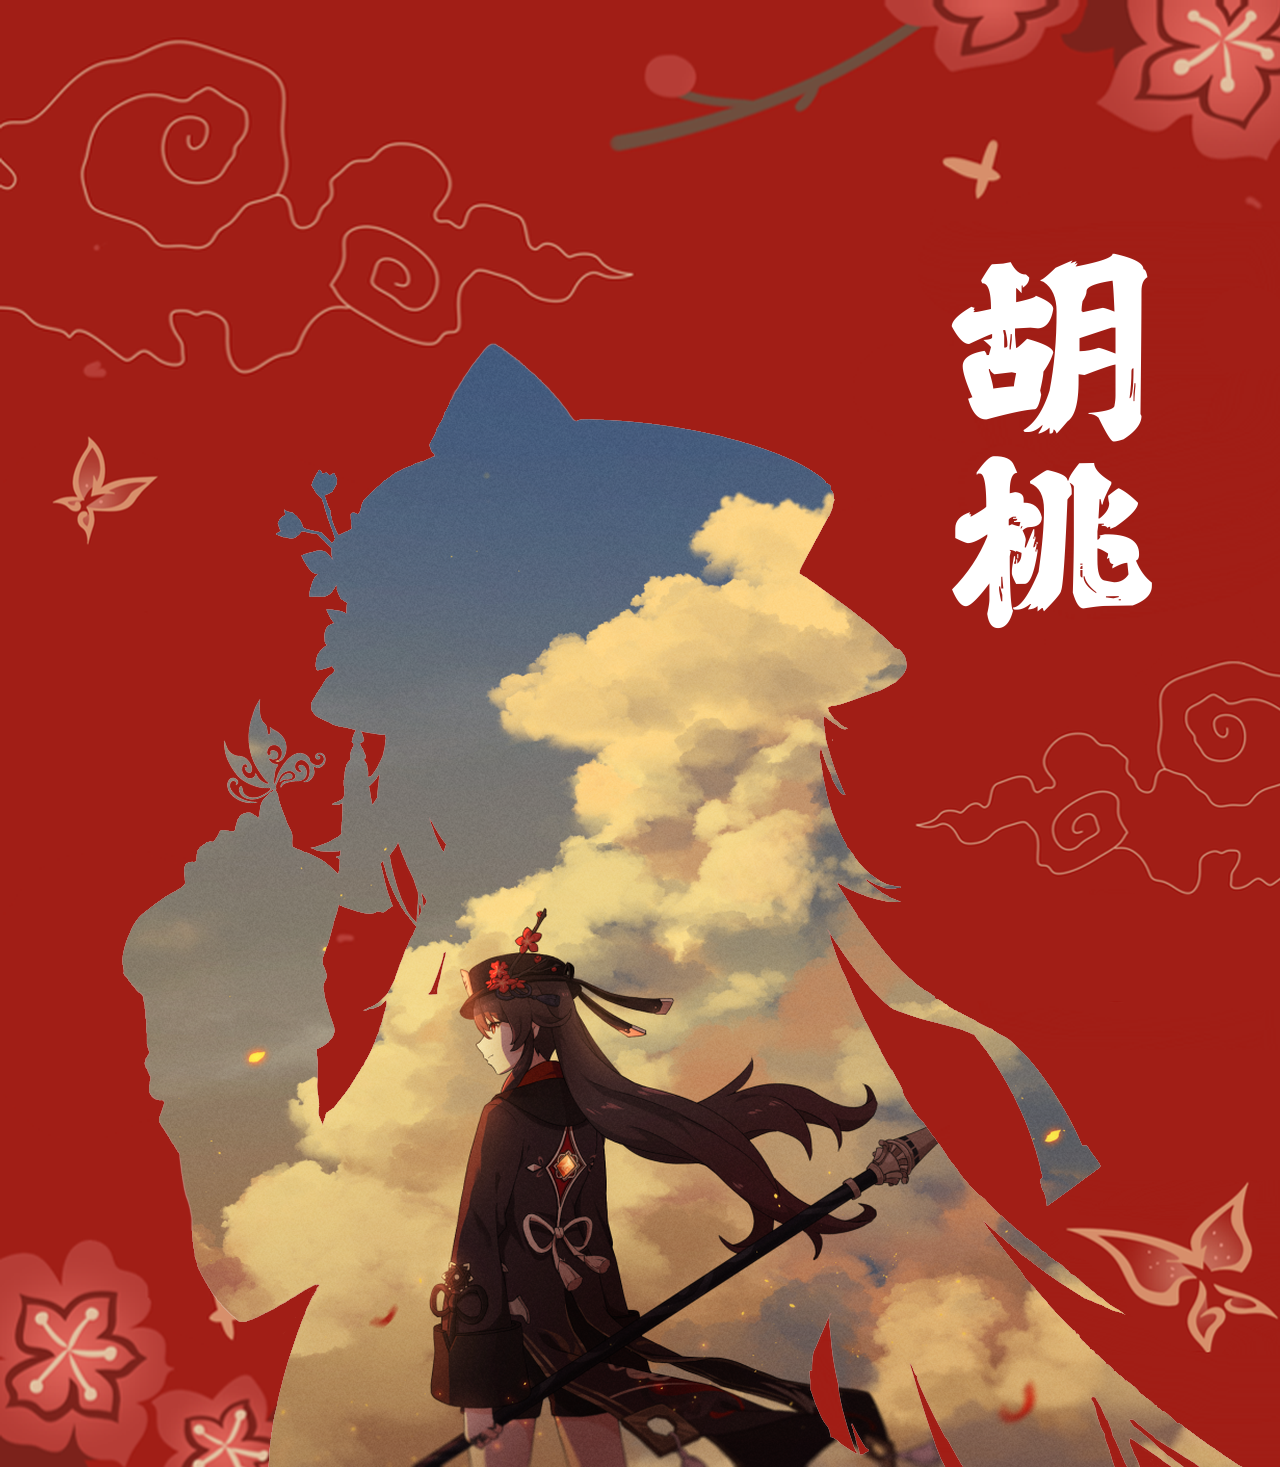
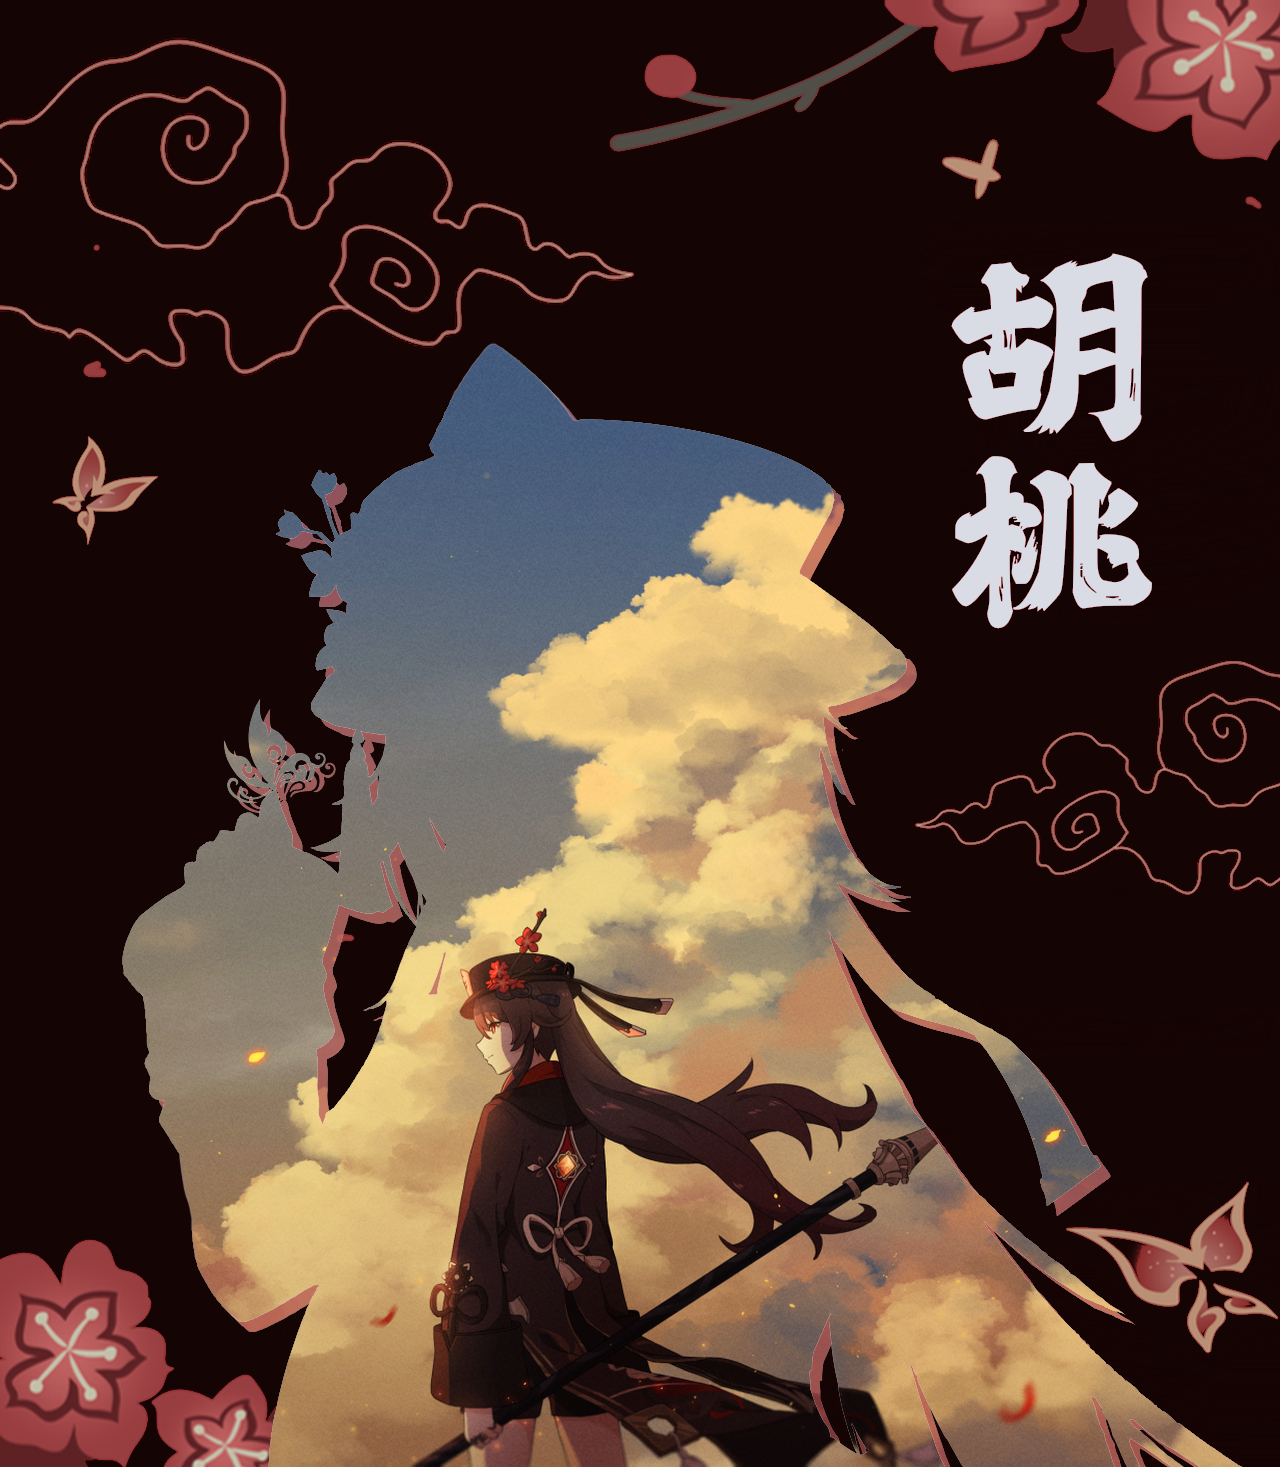
lots of effects

diff --git a/main.py b/main.py
@@ -1,4 +1,5 @@
 from PIL import Image, ImageDraw, ImageFont
+import math
 
 # hu tao's butterfly :)
 butterfly_mask_img = Image.open("butterfly_mask.png").convert("RGBA")
@@ -45,8 +46,8 @@ draw = ImageDraw.Draw(base_img)
 
 # add text
 font = ImageFont.truetype("HanyiSentyPagoda Regular.ttf", size=190)
-draw.text((950, 200), "胡", (255, 255, 255, 255), font)
-draw.text((950, 400), "桃", (255, 255, 255, 255), font)
+draw.text((950, 200), "胡", (247, 219, 219, 255), font)
+draw.text((950, 400), "桃", (247, 219, 219, 255), font)
 
 # nudge the left butterfly to the left a bit more and make it smaller
 left_butterfly_img = base_img.crop((50, 400, 290, 610)).resize(
@@ -66,9 +67,57 @@ right_butterfly_img = base_img.crop((950, 1050, 1280, 1300)).resize(
 )
 draw.rectangle(((950, 1050), (1280, 1300)), fill=base_img.getpixel((0, 0)))
 base_img.paste(right_butterfly_img, (1050, 1180))
+# move the butterfly on the bottom left a bit
+draw.rectangle(((200, 1270), (270, 1340)), fill=base_img.getpixel((0, 0)))
+
+# color thingy to test out black background
+def color_dist(c1, c2):
+    return (c1[0]-c2[0])**2 + (c1[1]-c2[1])**2 + (c1[2]-c2[2])**2
+
+px = base_img.load()
+bg_color = base_img.getpixel((0, 0))
+for y in range(base_img.height):
+    for x in range(base_img.width):
+        dist = color_dist(px[x, y], bg_color) # type: ignore
+        
+        if dist <= 500: # type: ignore
+            norm = min(dist / 500, 1.0)
+            dim_factor = math.exp(-2 * (1 - norm))
+            r, g, b, a = px[x, y] # type: ignore
+            # change this so that the dimming amount is proportional to how close it is to the bg_color
+            px[x, y] = ( # type: ignore
+                int(max(0, min(255, r * dim_factor))),
+                int(max(0, min(255, g * dim_factor))),
+                int(max(0, min(255, g * dim_factor))),
+                a
+            )
+        else:
+            r, g, b, a = px[x, y] # type: ignore
+            # Shift colors with clamping to 0–255
+            r = max(0, min(255, r-30))
+            b = max(0, min(255, b+10))
+            px[x, y] = (r, g, b, a) # type: ignore
+
+# silhouette shadow
+shadow_img = silhouette_img.copy()
+shadow_color = (220, 28, 28)
+blend_ratio = 0.5
+px = shadow_img.load()
+for y in range(shadow_img.height):
+    for x in range(shadow_img.width):
+        r, g, b, a = px[x, y]  # type: ignore
+        if a > 0:
+            # color blending for shadow to give sort of a glassy feel?
+            nr = int(r * (1 - blend_ratio) + shadow_color[0] * blend_ratio)
+            ng = int(g * (1 - blend_ratio) + shadow_color[1] * blend_ratio)
+            nb = int(b * (1 - blend_ratio) + shadow_color[2] * blend_ratio)
+            px[x, y] = (nr, ng, nb, int(a * 0.8))  # type: ignore
+# add shadow
+base_img.paste(shadow_img, (10, 10), shadow_img)
 
 # add silhouette
 base_img.paste(silhouette_img, (0, 0), silhouette_img)
+
 # save result
 base_img.save("result.png")
 base_img.show("Hu Tao Poster")
